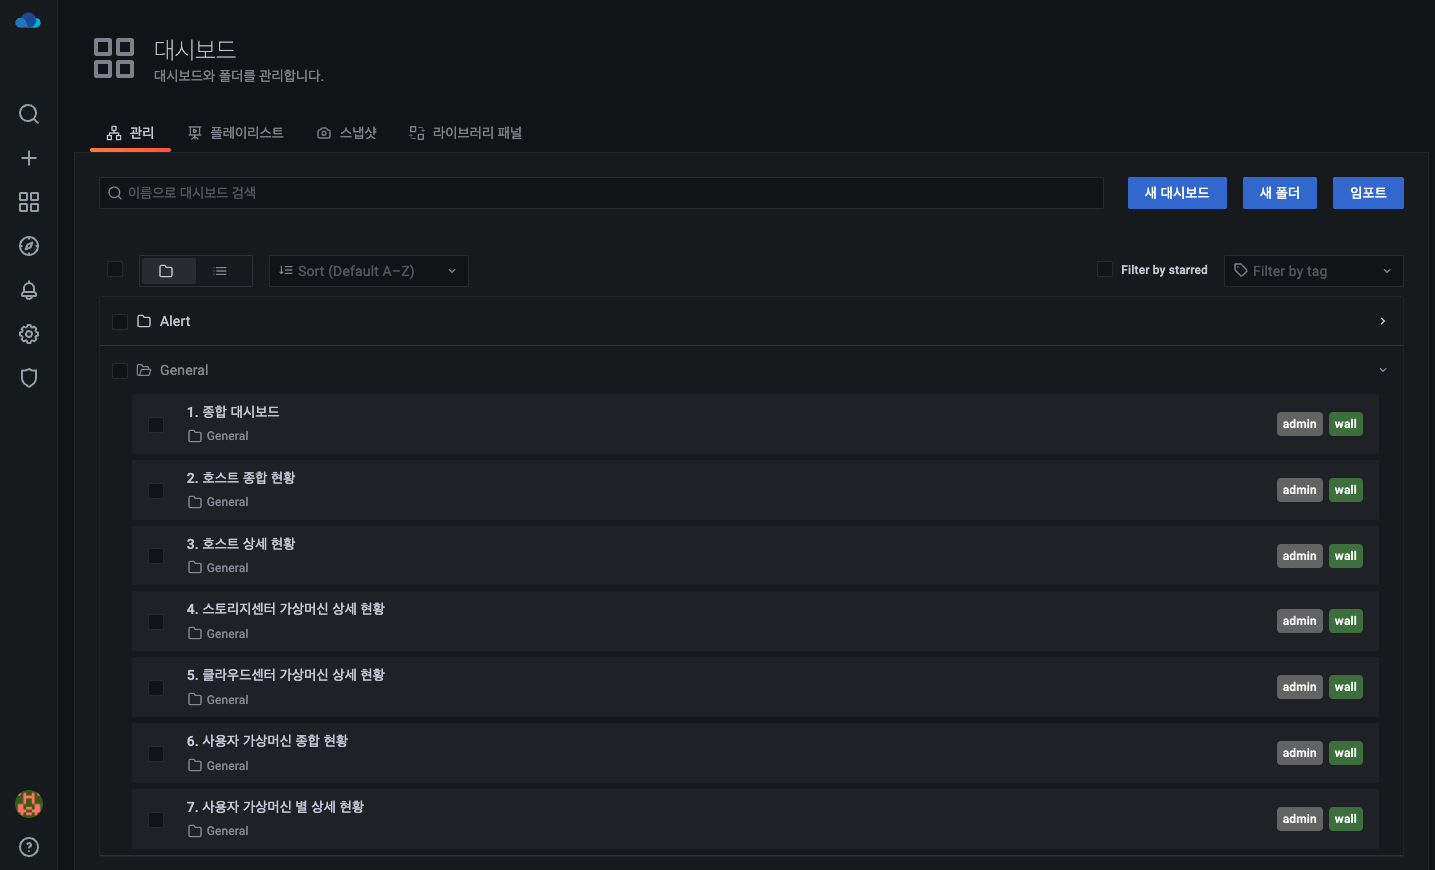
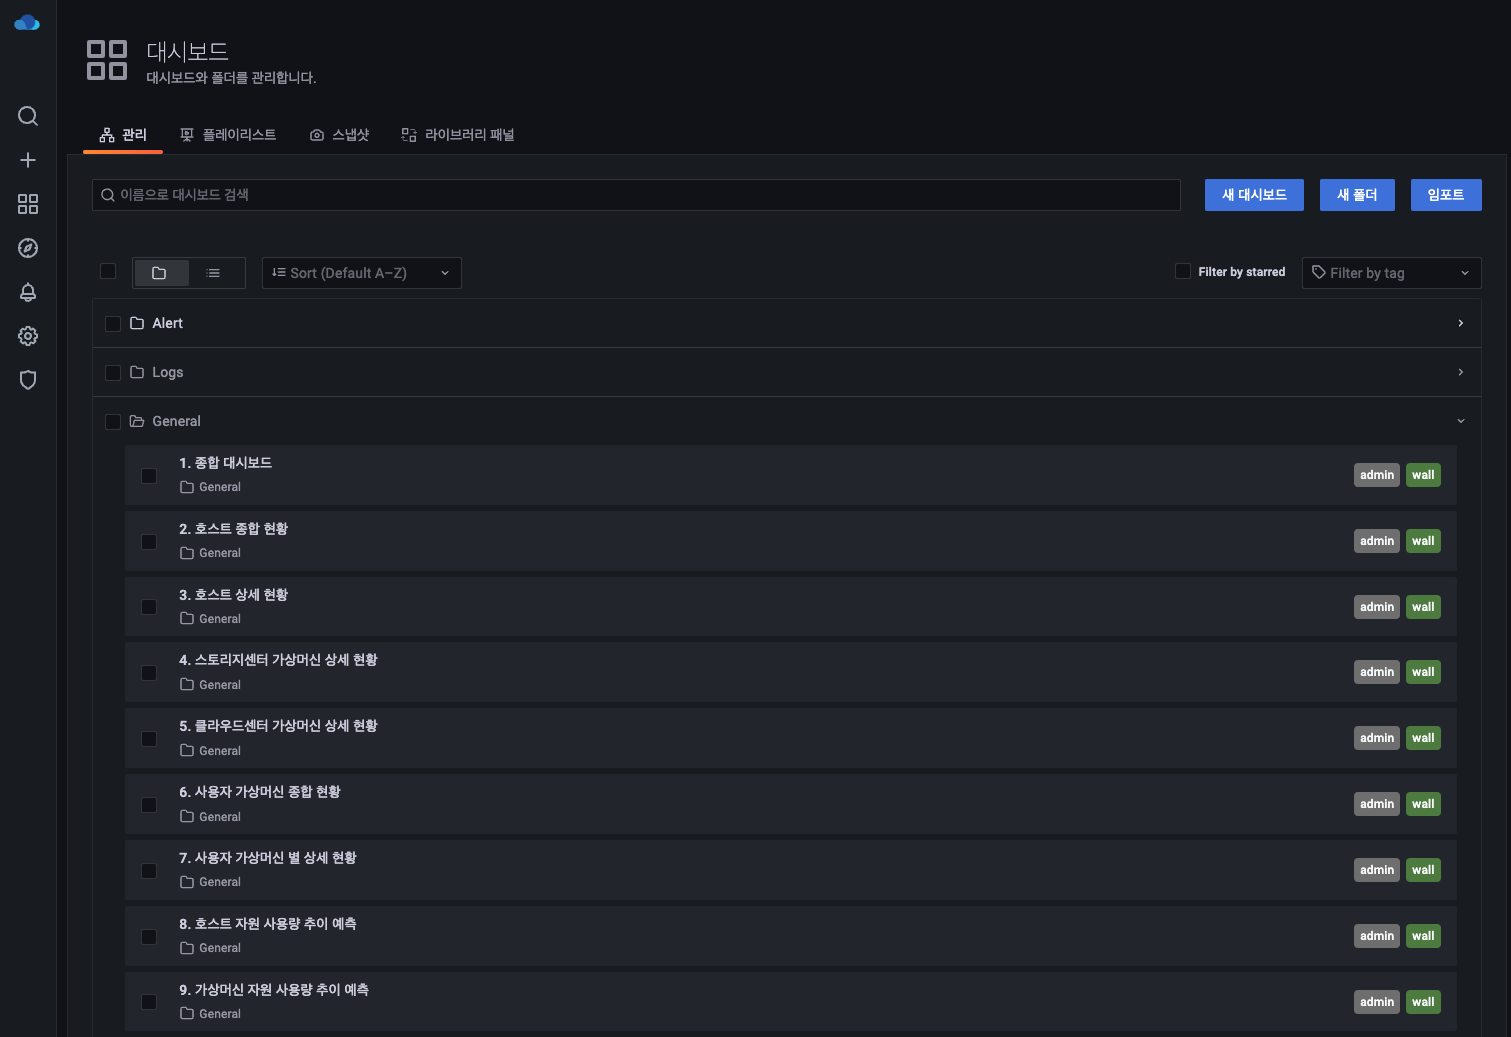
wall-log(loki) 추가로 인한 이미지 수정

diff --git a/docs/administration/wall/dashboard-search.md b/docs/administration/wall/dashboard-search.md
@@ -1,5 +1,5 @@
 # 대시보드 검색
-대시보드 검색 메뉴는 최근 본 대시보드, Alert 대시보드 4종, General 대시보드 7종에 대한 검색을 할 수 있는 기능을 제공합니다.
+대시보드 검색 메뉴는 최근 본 대시보드, Alert 대시보드, Log 대시보드, General 대시보드에 대한 검색을 할 수 있는 기능을 제공합니다.
 
 ![wall-dashboard-search-menu](../../assets/images/wall-dashboard-search-menu.png)
 
